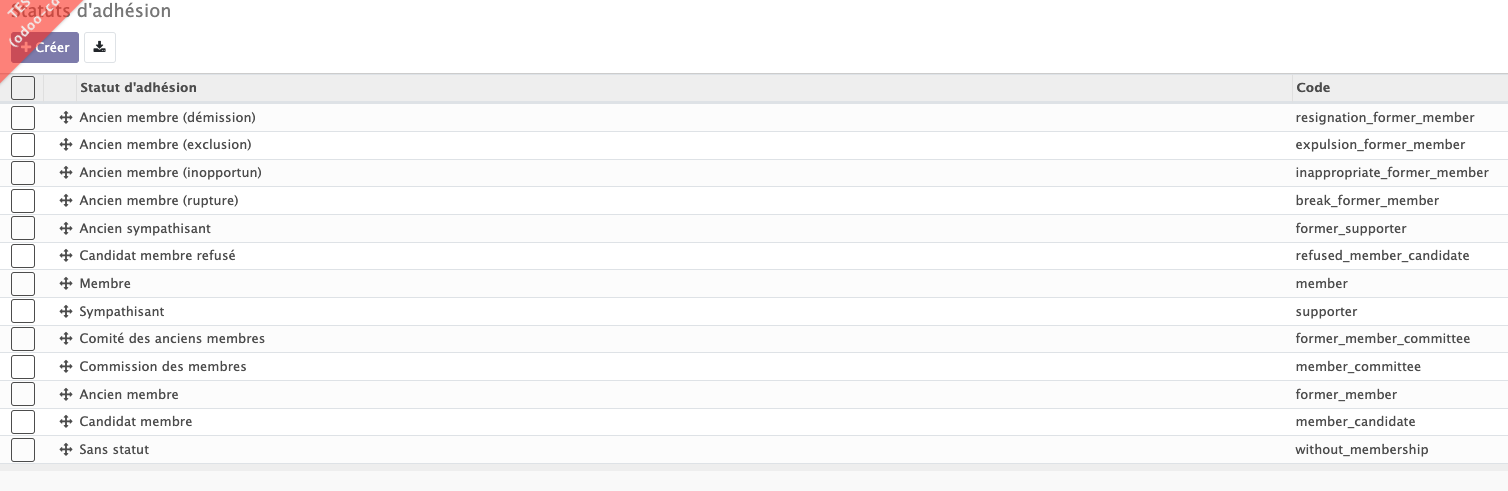
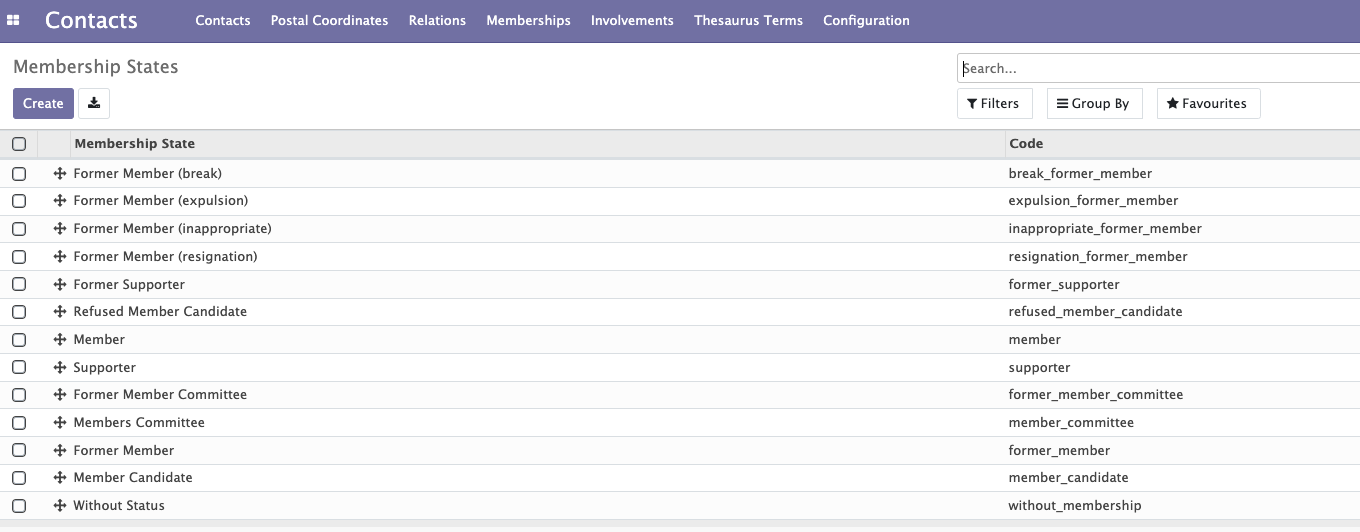
member statuses

diff --git a/docs/Contacts Module.md b/docs/Contacts Module.md
@@ -139,7 +139,7 @@ Co-residencies allow you to :
 
     You can create a co-residency by clicking on "action"--> "create a co-residency address” and entering the name of the co-residents in "line 1 and 2" 
     <figure markdown>        
-    ![screenshot 2](img/screen2.png)
+    ![screenshot 3](img/screen3.png)
     <figcaption>Creation of a co-residence</figcaption>
     </figure>
     !!! info
@@ -147,7 +147,7 @@ Co-residencies allow you to :
         Once you have created a co-residency or allowed the duplicates, the "show all duplicates" button will disappear.
 
 <figure markdown>
-![screenshot 32](img/screen32.png)
+![screenshot 33](img/screen33.png)
 <figcaption>Example of a contact with a co-residency</figcaption>
 </figure>
 
@@ -179,8 +179,7 @@ Each organisation can choose its own membership rates depending on the individua
 
             The price of a normal membership is 10€ and the price of a membership for people with disabilities is 5€. Contacts who are in a disability situation will benefit from the 5€ membership.
 
-            If the contact does not meet any of these rules, then the normal rate applies. Hence the importance of completing the information in the contact form.
-
+            If the contact does not meet any of these rules, then the normal rate applies. Hence the importance of filling in the contact information correctly.
 
 
 <figure markdown>
@@ -188,56 +187,19 @@ Each organisation can choose its own membership rates depending on the individua
 <figcaption>Creation of different types of subscriptions</figcaption>
 </figure>
 
-## Member Statuts
+## Member Statuses
 
-The member system depends on each company/party. There are several generic statuses through which contacts will pass depending on certain cases:
+Each contact is linked to a status and each organisation can have its own membership status. Members of the organisation will move from one status to another over time according to certain rules. The different statuses depend on a workflow that can be set up according to the needs of each organisation.
 
-!!! info inline end "information"
-
-    Sub points are the reasons why a contact can go through this status.
-
-- No statut
-- Candidat member
-    * Validation of a membership application (first membership):
-    * New member  
-    * Sympathizer who applies for membership 
-    * Rejected person applying for membership
-- Candidate member refused
-    * application rejected
-- Commission (futur) members
-    * Dues paid by a person who has never been a member before
-- Member : pay a fee and has the right to vote, has a greater importance, participates mare in the life of the party.
-    * Dues paid (renewal)
-- Sympathizer : does not pay a fee but has no right to vote. He can still participate in events.
-    * Application for membership as a supporter
-    * Membership application not paid in time
-    * Membership refused by the membership comittee but accepeted as a supporter
-- Old sympathizer
-    * Sympathizer who knows disinterest
-- Previous member
-    * Renewal of unpais dues
-    * Exclusion
-    * Innoportune : exlcusion of a member (membership fee)
-    * Resignation : member shows disinterest
-    * In breacj : disinterest of a former member (membership fee)
-- Commission (Alumni) member
-    * Former member who pays dues
-    
-Noted that additional status specific to the needs of each party can be added as needed and through wich the contact will pass. 
-
+<figure markdown>
 ![screenshot 9](img/screen9.png)
+<figcaption>Example of the different membership statuses of an organisation</figcaption>
+</figure>
 
-__Workflow of an adhésion :__
+<figure markdown>
 ![screenshot 10](img/screen10.png)
-
-__Workflow of a first contribution for a member:__
-![screenshot 11](img/screen11.png)
-
-When reapplying for membership, the officer will check:
-
- - Contact informations
- - Does the person aldready exist or not ?
- - Linking of interrests with thesaurus
+<figcaption>Workflow of the differents statuses of the organization</figcaption>
+</figure>
 
 ## Membership renewal 
 Mass renewal of subscriptions for the following year. Mass generation of structured communication. Sending of a personalized letter (explanation of amounts, payment slips, structured communication). Receipt of payments. Using the "mass closure" button → Mass cancellation of unpaid invoices (automatic switch to "old" status).
